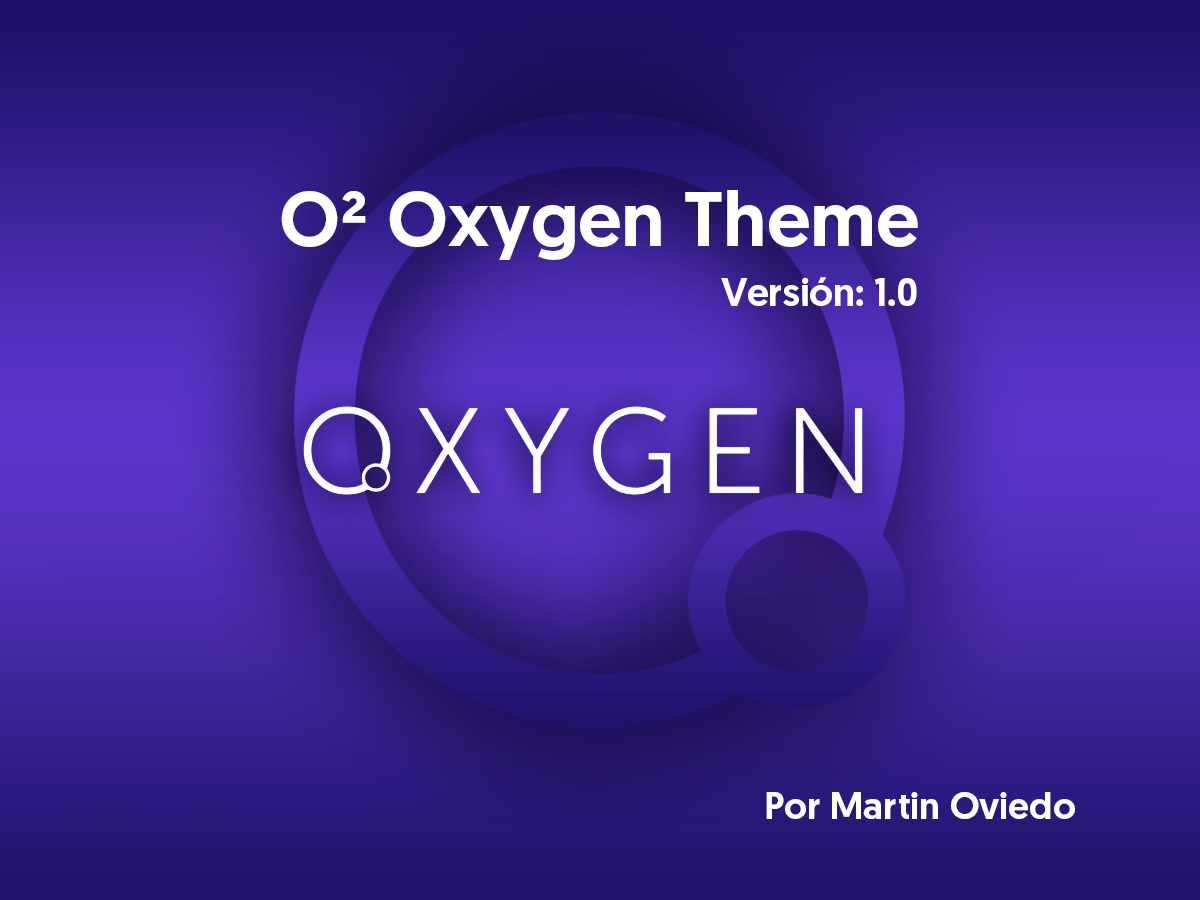
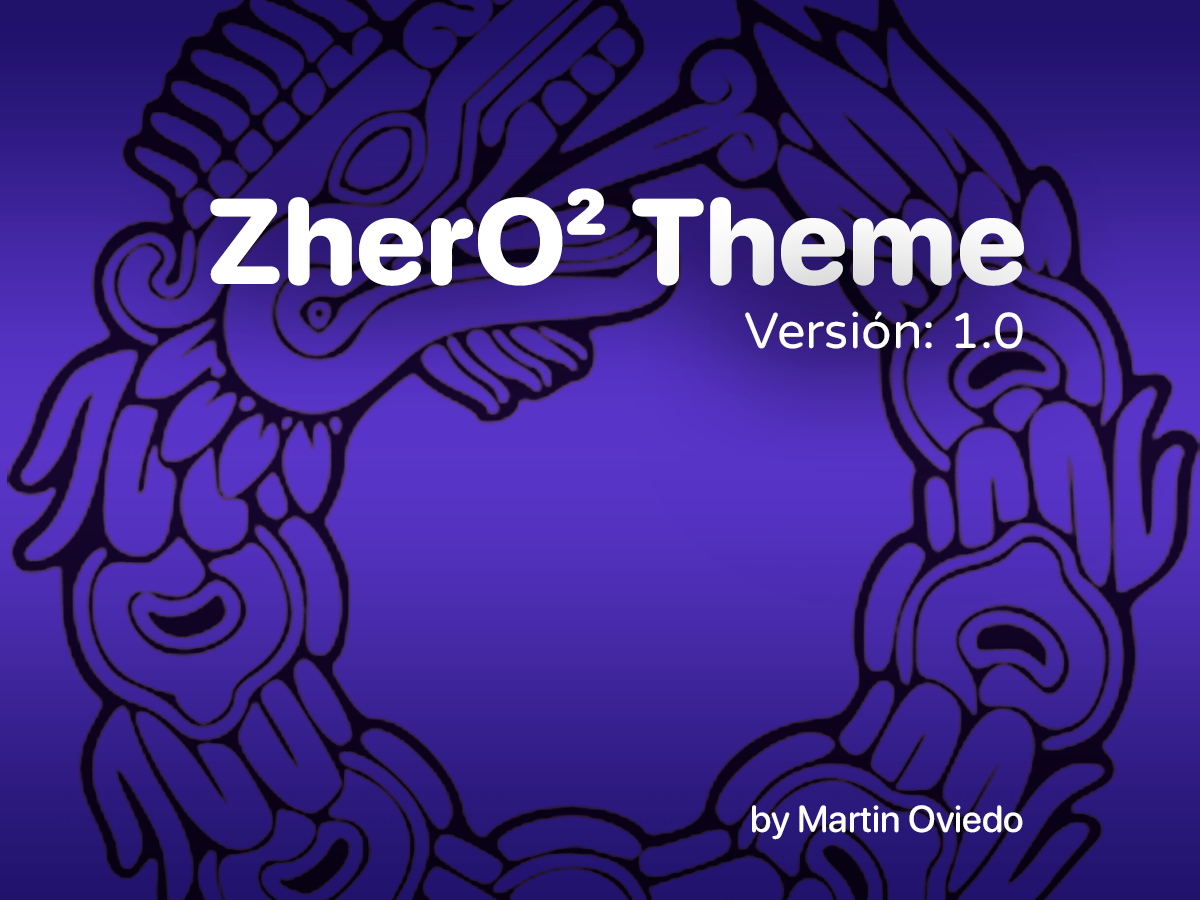
new name

diff --git a/style.css b/style.css
@@ -1,10 +1,10 @@
 /*
-Theme Name: O² Oxygen Theme
+Theme Name: ZherO² Theme
 Theme URI: http://ndawebs.com/
 Author: Martin Oviedo
 Author URI: http://ndawebs.com/
 Description: It is a theme for Oxygen Builder, you don't really need one but for aesthetic purposes you can use this theme and also it is super light it has the minimum to be a wordpress theme. I will be updating it often with some functions that improve the use of Oxygen Builder.
-Version: 1.0
+Version: 1.0.1 - Thank you collaborate with the new name to Sten Wichmann
 License: GNU General Public License v2 or later
 License URI: http://www.gnu.org/licenses/gpl-2.0.html
 Text Domain: o2

diff --git a/functions.php b/functions.php
@@ -73,6 +73,12 @@ if ( ! function_exists( 'o2_custom_image_sizes_names' ) ) :
 
 function o2_custom_image_sizes_names( $sizes ) {
 
+    /*
+     * Add names of custom image sizes.
+     */
+    /* Pinegrow generated Image Sizes Names Begin*/
+    /* This code will be replaced by returning names of custom image sizes. */
+    /* Pinegrow generated Image Sizes Names End */
     return $sizes;
 }
 add_action( 'image_size_names_choose', 'o2_custom_image_sizes_names' );
